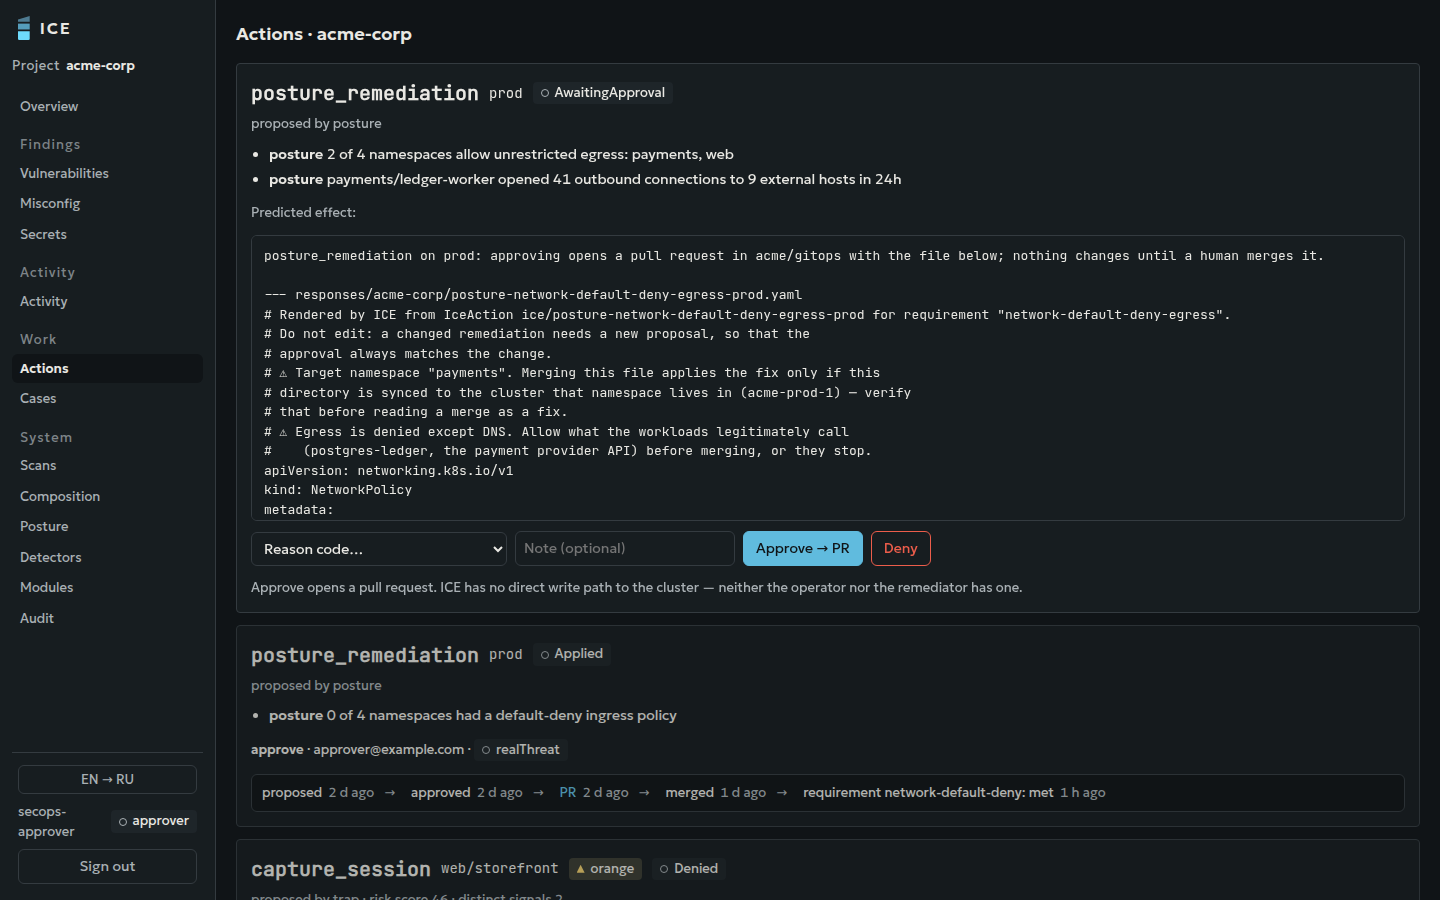
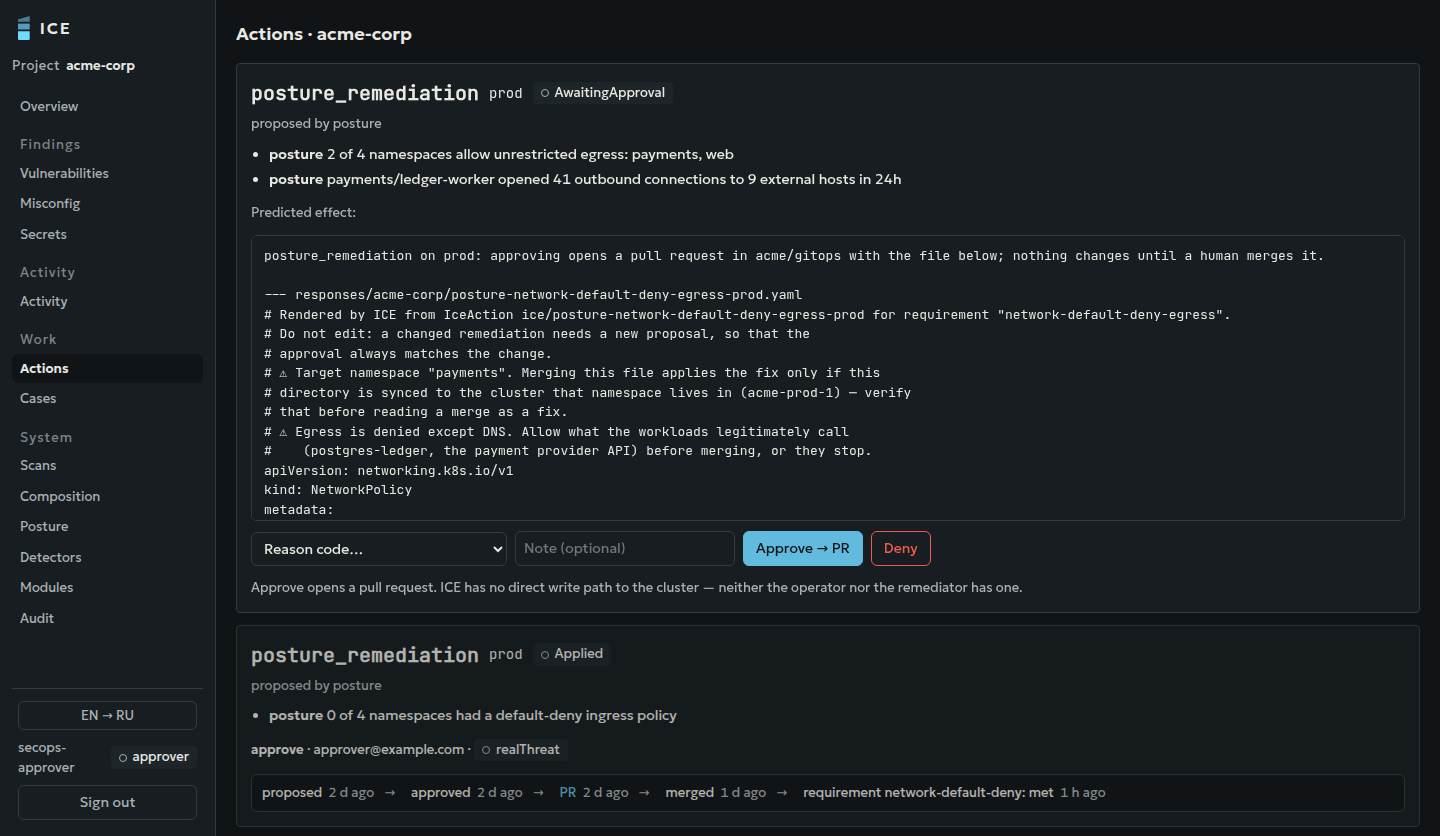
fix(site): design review round 3 — tertiary text passes AA, the hero shot ends on a whole card
- --dt-ink-3 (light) oklch(0.5) → oklch(0.46): 4.2:1 → 4.8:1 on paper; the dark value is
  unchanged. Dates, statuses and the as-of line already use --dt-ink-2 (8.5:1).
- The Actions screenshot (hero and the /ice/ gallery, light and dark) is re-shot at a
  1440x836 viewport, so it ends on the gap after the second card with the sidebar whole,
  instead of cutting the capture_session card through a line of text. The phone crop of
  the approval card was already clean and is unchanged.

diff --git a/docs/.vitepress/theme/components/HubHome.vue b/docs/.vitepress/theme/components/HubHome.vue
@@ -35,7 +35,7 @@ const latest = posts.slice(0, 4);
               src="/screenshots/ice/action-approval.png"
               alt="ICE console: a proposed remediation waiting for approval, with Approve and Deny"
               width="1440"
-              height="900"
+              height="836"
             />
           </picture>
           <picture class="dt-dark-only">
@@ -44,7 +44,7 @@ const latest = posts.slice(0, 4);
               src="/screenshots/ice/action-approval-dark.png"
               alt="ICE console in its dark theme: a proposed remediation waiting for approval, with Approve and Deny"
               width="1440"
-              height="900"
+              height="836"
             />
           </picture>
         </a>

diff --git a/docs/.vitepress/theme/custom.css b/docs/.vitepress/theme/custom.css
@@ -19,7 +19,7 @@
   --dt-paper-3: oklch(0.925 0.014 85);
   --dt-ink: oklch(0.25 0.03 252);
   --dt-ink-2: oklch(0.4 0.025 252);
-  --dt-ink-3: oklch(0.5 0.02 252);
+  --dt-ink-3: oklch(0.46 0.02 252); /* tertiary text, 4.8:1 on paper (AA for small text) */
   --dt-rule: oklch(0.86 0.015 85);
   --dt-brass: oklch(0.74 0.135 78);
   --dt-brass-ink: oklch(0.5 0.11 70);

diff --git a/docs/ice/index.md b/docs/ice/index.md
@@ -64,7 +64,7 @@ person approved, the action fails instead of shipping something nobody reviewed.
 company, acme-corp — not a production estate.</p>
 
 <figure class="dt-shot">
-  <a class="dt-light-only" href="/screenshots/ice/action-approval.png"><img src="/screenshots/ice/action-approval.png" width="1440" height="900" loading="lazy" alt="ICE console, Actions: a posture remediation awaiting approval, with the evidence, the rendered NetworkPolicy and what merging it does; Approve opens a pull request."></a><a class="dt-dark-only" href="/screenshots/ice/action-approval-dark.png"><img src="/screenshots/ice/action-approval-dark.png" width="1440" height="900" loading="lazy" alt="ICE console, Actions: a posture remediation awaiting approval, with the evidence, the rendered NetworkPolicy and what merging it does; Approve opens a pull request. Dark theme."></a>
+  <a class="dt-light-only" href="/screenshots/ice/action-approval.png"><img src="/screenshots/ice/action-approval.png" width="1440" height="836" loading="lazy" alt="ICE console, Actions: a posture remediation awaiting approval, with the evidence, the rendered NetworkPolicy and what merging it does; Approve opens a pull request."></a><a class="dt-dark-only" href="/screenshots/ice/action-approval-dark.png"><img src="/screenshots/ice/action-approval-dark.png" width="1440" height="836" loading="lazy" alt="ICE console, Actions: a posture remediation awaiting approval, with the evidence, the rendered NetworkPolicy and what merging it does; Approve opens a pull request. Dark theme."></a>
   <figcaption><strong>Approve a change, not a description.</strong> The rendered manifest and what merging it does; approving opens a pull request — ICE has no direct write path to the cluster.</figcaption>
 </figure>
 
